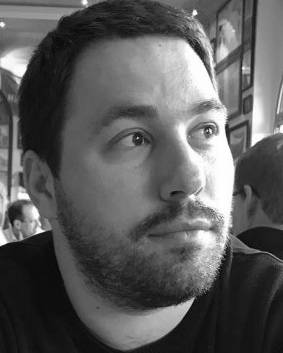
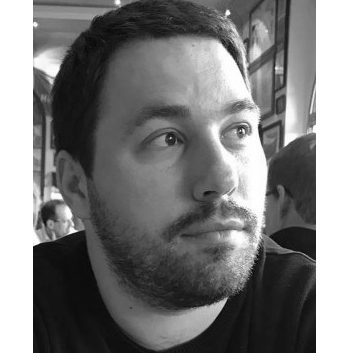
Adicionando uma máscara nas imagens dos palestrantes.

diff --git a/index.html b/index.html
@@ -66,7 +66,7 @@
 
         <div class="row align-items-center speaker">
           <div class="col-lg-6 mb-5 mb-lg-0" data-aos="fade" data-aos-delay="100">
-            <img src="images/yan-bw.jpg" alt="Image" class="img-fluid">
+            <img src="images/yan-bw.jpg" alt="Image" class="img-speaker-fluid">
           </div>
           <div class="col-lg-6 ml-auto">
             <h2 class="text-white mb-4 name" data-aos="fade-right" data-aos-delay="200">Yan Cui</h2>
@@ -83,7 +83,7 @@
 
         <div class="row align-items-center speaker">
           <div class="col-lg-6 mb-5 mb-lg-0 order-lg-2" data-aos="fade" data-aos-delay="100">
-            <img src="images/diogo-bw.jpg" alt="Image" class="img-fluid">
+            <img src="images/diogo-bw.jpg" alt="Image" class="img-speaker-fluid">
           </div>
           <div class="col-lg-6 ml-auto order-lg-1">
             <h2 class="text-white mb-4 name" data-aos="fade-left" data-aos-delay="200">Diogo Guedes</h2>
@@ -100,7 +100,7 @@
 
         <div class="row align-items-center speaker">
           <div class="col-lg-6 mb-5 mb-lg-0" data-aos="fade" data-aos-delay="100">
-            <img src="images/gunnar-bw.jpg" alt="Image" class="img-fluid">
+            <img src="images/gunnar-bw.jpg" alt="Image" class="img-speaker-fluid">
           </div>
           <div class="col-lg-6 ml-auto">
             <h2 class="text-white mb-4 name" data-aos="fade-right" data-aos-delay="200">Gunnar Grosch</h2>
@@ -118,7 +118,7 @@
       
         <div class="row align-items-center speaker">
           <div class="col-lg-6 mb-5 mb-lg-0 order-lg-2" data-aos="fade" data-aos-delay="100">
-            <img src="images/ana-bw.jpg" alt="Image" class="img-fluid">
+            <img src="images/ana-bw.jpg" alt="Image" class="img-speaker-fluid">
           </div>
           <div class="col-lg-6 ml-auto order-lg-1">
             <h2 class="text-white mb-4 name" data-aos="fade-left" data-aos-delay="200">Ana Cunha</h2>
@@ -135,7 +135,7 @@
 
         <div class="row align-items-center speaker">
           <div class="col-lg-6 mb-5 mb-lg-0" data-aos="fade" data-aos-delay="100">
-            <img src="images/slobodan-bw.jpg" alt="Image" class="img-fluid">
+            <img src="images/slobodan-bw.jpg" alt="Image" class="img-speaker-fluid">
           </div>
           <div class="col-lg-6 ml-auto">
             <h2 class="text-white mb-4 name" data-aos="fade-right" data-aos-delay="200">Slobodan Stojanović</h2>
@@ -152,7 +152,7 @@
 
         <div class="row align-items-center speaker">
           <div class="col-lg-6 mb-5 mb-lg-0 order-lg-2" data-aos="fade" data-aos-delay="100">
-            <img src="images/sapata-bw.jpg" alt="Image" class="img-fluid">
+            <img src="images/sapata-bw.jpg" alt="Image" class="img-speaker-fluid">
           </div>
           <div class="col-lg-6 ml-auto order-lg-1">
             <h2 class="text-white mb-4 name" data-aos="fade-left" data-aos-delay="200">Fernando Sapata</h2>
@@ -165,7 +165,7 @@
 
         <div class="row align-items-center speaker">
           <div class="col-lg-6 mb-5 mb-lg-0" data-aos="fade" data-aos-delay="100">
-            <img src="images/ibrahim-bw.jpg" alt="Image" class="img-fluid">
+            <img src="images/ibrahim-bw.jpg" alt="Image" class="img-speaker-fluid">
           </div>
           <div class="col-lg-6 ml-auto">
             <h2 class="text-white mb-4 name" data-aos="fade-right" data-aos-delay="200">Ibrahim Cesar Bevilacqua</h2>
@@ -178,7 +178,7 @@
 
         <div class="row align-items-center speaker">
           <div class="col-lg-6 mb-5 mb-lg-0 order-lg-2" data-aos="fade" data-aos-delay="100">
-            <img src="images/alex-bw.jpg" alt="Image" class="img-fluid">
+            <img src="images/alex-bw.jpg" alt="Image" class="img-speaker-fluid">
           </div>
           <div class="col-lg-6 ml-auto order-lg-1">
             <h2 class="text-white mb-4 name" data-aos="fade-left" data-aos-delay="200">Alex Coqueiro</h2>
@@ -195,7 +195,7 @@
 
         <div class="row align-items-center speaker">
           <div class="col-lg-6 mb-5 mb-lg-0" data-aos="fade" data-aos-delay="100">
-            <img src="images/evandro-bw.jpg" alt="Image" class="img-fluid">
+            <img src="images/evandro-bw.jpg" alt="Image" class="img-speaker-fluid">
           </div>
           <div class="col-lg-6 ml-auto">
             <h2 class="text-white mb-4 name" data-aos="fade-right" data-aos-delay="200">Evandro Pires da Silva</h2>
@@ -212,7 +212,7 @@
 
         <div class="row align-items-center speaker">
           <div class="col-lg-6 mb-5 mb-lg-0 order-lg-2" data-aos="fade" data-aos-delay="100">
-            <img src="images/rafael-bw.jpg" alt="Image" class="img-fluid">
+            <img src="images/rafael-bw.jpg" alt="Image" class="img-speaker-fluid">
           </div>
           <div class="col-lg-6 ml-auto order-lg-1">
             <h2 class="text-white mb-4 name" data-aos="fade-left" data-aos-delay="200">Rafael Barbosa</h2>
@@ -227,7 +227,7 @@
 
         <div class="row align-items-center speaker">
           <div class="col-lg-6 mb-5 mb-lg-0" data-aos="fade" data-aos-delay="100">
-            <img src="images/vadym-bw.jpg" alt="Image" class="img-fluid">
+            <img src="images/vadym-bw.jpg" alt="Image" class="img-speaker-fluid">
           </div>
           <div class="col-lg-6 ml-auto">
             <h2 class="text-white mb-4 name" data-aos="fade-right" data-aos-delay="200">Vadym Kazulkin</h2>
@@ -245,7 +245,7 @@
 
         <div class="row align-items-center speaker">
           <div class="col-lg-6 mb-5 mb-lg-0 order-lg-2" data-aos="fade" data-aos-delay="100">
-            <img src="images/erick-bw.jpg" alt="Image" class="img-fluid">
+            <img src="images/erick-bw.jpg" alt="Image" class="img-speaker-fluid">
           </div>
           <div class="col-lg-6 ml-auto order-lg-1">
             <h2 class="text-white mb-4 name" data-aos="fade-left" data-aos-delay="200">Erick Wendel</h2>
@@ -263,7 +263,7 @@
 
         <div class="row align-items-center speaker">
           <div class="col-lg-6 mb-5 mb-lg-0" data-aos="fade" data-aos-delay="100">
-            <img src="images/fabian-bw.jpg" alt="Image" class="img-fluid">
+            <img src="images/fabian-bw.jpg" alt="Image" class="img-speaker-fluid">
           </div>
           <div class="col-lg-6 ml-auto">
             <h2 class="text-white mb-4 name" data-aos="fade-right" data-aos-delay="200">Fabian Silva</h2>

diff --git a/css/style.css b/css/style.css
@@ -778,3 +778,8 @@ h1, h2, h3, h4, h5,
   width: 40px;
   height: 40px;
   line-height: 40px; }
+
+  .img-speaker-fluid {
+    max-width: 100%;
+    border-radius: 50%;
+    height: auto; }
